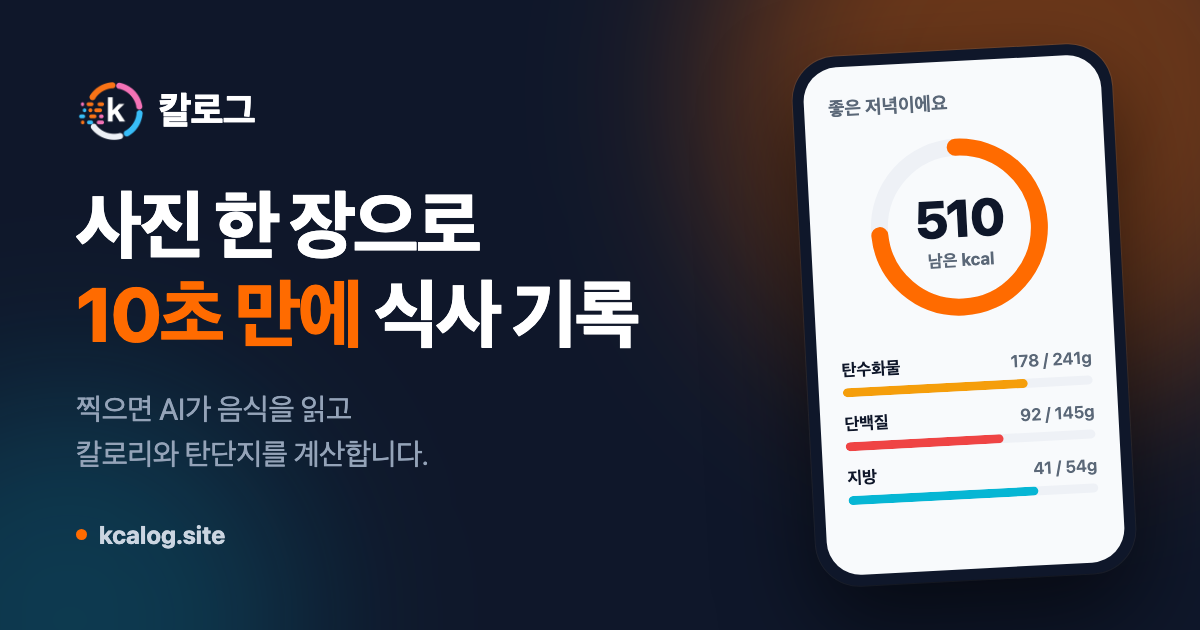
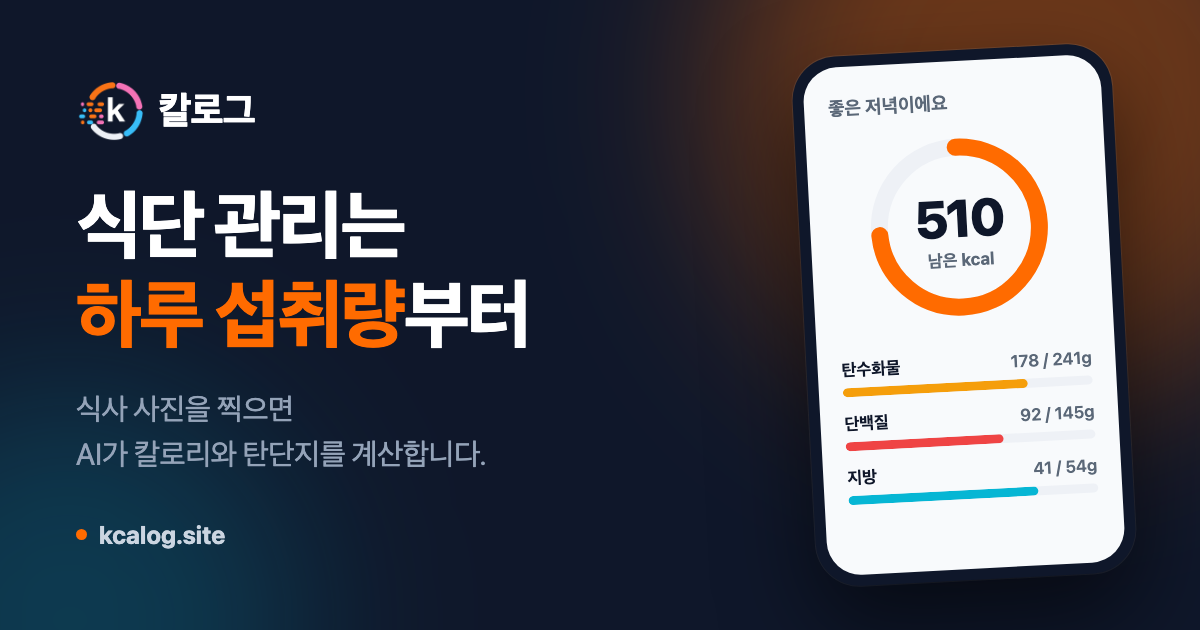
feat: 랜딩과 온보딩을 하루 섭취량 기준으로 다시 쓴다
사진 한 장으로 10초는 진입 마찰을 줄이는 수단이지 이 서비스의 핵심이
아니다. 요즘 칼로리 앱이 다 내세우는 문구라 차별점도 되지 못하고,
기록이 빨라도 기준이 틀렸으면 안 빠진다는 것에 답하지 않는다.

히어로를 식단 관리는 하루 섭취량부터로 바꾸고, 무엇을 하는 앱인지와
얻는 것을 한 줄에 담았다. 부제가 사진 기록과 실측 유지 칼로리를 받는다.

히어로 다음에 안 빠지는 이유를 다섯 가지로 푸는 섹션을 넣었다. 사람들이
모르는 것, 그래서 실패하는 지점, 칼로그가 그것을 어떻게 다루는지 순서다.
기능 소개보다 앞에 둔 이유는, 기능을 먼저 늘어놓으면 칼로리 앱 또 하나로
읽히고 아래로 내려가지 않기 때문이다.

레이아웃은 카드를 쓰지 않는다. 다섯을 같은 상자에 담으면 무게가 같아져
어느 것이 중요한지 사라지고, 대립하는 내용인데 격자로 늘어놓으면 대립이
읽히지 않는다. 가로선으로만 나눈 비대칭 두 칸으로 두어 왼쪽이 믿고 있는
것, 오른쪽이 그래서 벌어지는 일과 우리 답을 맡는다.

온보딩 결과 화면에는 빠져 있던 대비를 넣었다. 대부분의 앱은 처음 계산한
추정값을 끝까지 쓴다는 문장이 없으면 다들 하는 그 계산으로 읽힌다.
제목도 매일 기록해야 정확해져요에서 2주 뒤엔 내 몸에서 나온 숫자로
바뀌어요로 바꿔, 해야 할 일이 아니라 얻는 것을 앞세웠다.

2주라는 숫자는 히어로에서 뺐다. 앞에 두면 2주를 기다려야 쓸모가 생기는
앱으로 읽히는데, 실제로는 가입 직후에 목표가 나온다.

공유 카드와 메타데이터, 푸터, 로그인 화면도 같은 목소리로 맞췄다.

Changed region(s): [[0.0617, 0.3016, 0.555, 0.573], [0.0617, 0.6333, 0.4008, 0.754]]

diff --git a/frontend/src/pages/LandingPage.tsx b/frontend/src/pages/LandingPage.tsx
@@ -44,6 +44,53 @@ const FEATURES = [
   },
 ] as const
 
+/**
+ * 한 줄이 하나의 오해다. 왼쪽이 사람들이 믿는 것, 오른쪽이 그래서 벌어지는 일과 우리 답이다.
+ * `lead`가 붙은 첫 줄은 다른 칼로리 앱과 갈리는 지점이라 크기를 키운다.
+ */
+interface Misread {
+  title: string
+  body: string
+  answer: string
+  lead?: string
+  contrast?: string
+}
+
+const MISREADS: Misread[] = [
+  {
+    lead: '가장 큰 오해',
+    title: '인터넷 계산기 값이 정답인 줄 안다',
+    body: '공식으로 낸 값은 개인차가 10에서 15% 납니다. 2,500이라고 나와도 실제는 2,200일 수도 2,800일 수도 있습니다. 활동량을 한 칸 다르게 고르면 400kcal가 움직입니다. "계산대로 먹었는데 안 빠져요"가 여기서 나옵니다. 공식이 틀린 게 아니라 내 몸이 평균이 아닌 것뿐입니다.',
+    contrast: '대부분의 칼로리 앱은 처음 계산한 추정값을 끝까지 씁니다.',
+    answer:
+      '칼로그는 2주만 기록하면 실제로 먹은 양과 체중 변화로 역산해 진짜 유지 칼로리를 알려줍니다. 공식이 아니라 내 몸에서 나온 값입니다.',
+  },
+  {
+    title: '자기 유지 칼로리를 모른다',
+    body: '"적게 먹어야지"는 아는데 얼마나 적게인지 기준이 없습니다. 그래서 무작정 굶다가 폭식하고, 빠졌다 도로 찝니다.',
+    answer:
+      '키, 몸무게, 나이, 활동량으로 유지 칼로리를 계산하고 목표까지 잡아줍니다. 하루 500kcal를 덜 먹으면 한 달에 2kg이 빠진다는 것까지 숫자로 보여줍니다. 2주 뒤 생각만큼 안 움직이면 거기서 200에서 300kcal만 더 빼면 됩니다.',
+  },
+  {
+    title: '체중이 매일 흔들린다는 걸 모른다',
+    body: '물, 나트륨, 전날 먹은 탄수화물 때문에 하루 만에 1kg 넘게 오르내립니다. 지방이 아닙니다. 어제보다 늘어난 숫자를 보고 실패했다고 느껴 그만두는 것이 가장 흔한 포기 이유입니다.',
+    answer:
+      '하루 숫자가 아니라 추세선을 보여줍니다. 아침에 화장실 다녀와서 재는 것까지 알려주고, 오르내림은 신경 쓰지 않아도 된다고 말해줍니다.',
+  },
+  {
+    title: '단백질을 칼로리 비율로 정하면 안 된다',
+    body: '단백질은 몸 크기에 비례해야 하는데 대부분의 앱이 "칼로리의 30%"로 계산합니다. 그러면 많이 먹는 사람에게 체중 1kg당 2.8g 같은 값이 나옵니다. 근거 있는 범위는 1.6에서 2.2g입니다.',
+    answer:
+      '단백질을 체중에서 먼저 정하고(1kg당 1.2에서 2.0g), 지방을 25%로 두고, 남은 것을 탄수화물이 받습니다. 감량하면서 근육을 지키고 싶으면 "근육량도 목표" 하나만 켜면 됩니다.',
+  },
+  {
+    title: '탄단지를 정확히 맞춰야 한다고 착각한다',
+    body: '세 숫자를 딱 맞추려다 지쳐서 그만둡니다. 실제로는 총 칼로리가 훨씬 중요합니다.',
+    answer:
+      '탄수화물 20g을 덜고 지방 9g을 더하면 총 칼로리가 같다는 것을 숫자와 함께 알려줍니다. 단백질만 확보하면 나머지 둘은 취향껏 나눠도 결과가 크게 다르지 않습니다.',
+  },
+]
+
 const STEPS = [
   { n: '01', title: '식사 사진을 찍는다', body: '카메라 버튼 한 번. 접시를 통째로 담아도 됩니다.' },
   { n: '02', title: 'AI가 읽는다', body: '음식 이름과 양을 추정해 칼로리·탄단지를 계산합니다.' },
@@ -61,6 +108,10 @@ const SCREENS = [
 const TILT = [-4, 2.5, -2, 3.5] as const
 
 const FAQ = [
+  {
+    q: '다른 칼로리 앱과 뭐가 다른가요?',
+    a: '대부분은 처음 공식으로 계산한 추정값을 끝까지 씁니다. 칼로그는 2주치 식사와 체중이 쌓이면 실제로 먹은 양과 체중 변화로 유지 칼로리를 다시 계산해 목표를 고쳐 잡습니다. 단백질을 칼로리 비율이 아니라 체중에서 정하는 것도 다릅니다.',
+  },
   {
     q: '무료인가요?',
     a: '네. 지금은 모든 기능이 무료입니다. AI 분석에는 한 사람당 하루 사용량 제한이 있습니다.',
@@ -172,20 +223,20 @@ export function LandingPage() {
 
               <Reveal delayMs={80}>
                 <h1 className="mt-6 text-balance text-5xl font-extrabold leading-[1.08] tracking-tighter text-on-brand sm:text-6xl lg:text-7xl">
-                  사진 한 장으로
+                  식단 관리는
                   <br />
                   <span className="bg-gradient-to-r from-brand to-carb bg-clip-text text-transparent">
-                    10초 만에
-                  </span>{' '}
-                  기록
+                    하루 섭취량
+                  </span>
+                  부터
                 </h1>
               </Reveal>
 
               <Reveal delayMs={160}>
                 <p className="mx-auto mt-6 max-w-xl text-pretty text-lg leading-relaxed text-canvas/70 lg:mx-0 lg:text-xl">
-                  찍으면 AI가 음식을 읽고 칼로리와 탄·단·지를 계산합니다.
+                  식사 사진을 찍으면 AI가 칼로리와 탄단지를 계산합니다.
                   <br className="hidden sm:block" />
-                  체중, 주간 리포트, AI 코치까지 한 앱에서.
+                  쌓인 기록으로 하루 목표를 내 몸에 맞게 고쳐 나갑니다.
                 </p>
               </Reveal>
 
@@ -209,7 +260,7 @@ export function LandingPage() {
           </div>
 
           <a
-            href="#flow"
+            href="#why"
             aria-label="아래로 이동"
             className="absolute bottom-6 left-1/2 z-10 hidden -translate-x-1/2 rounded-full p-2 text-canvas/50 transition-colors hover:text-canvas focus-visible:ring-2 focus-visible:ring-brand sm:block"
           >
@@ -217,6 +268,69 @@ export function LandingPage() {
               <ChevronDownIcon />
             </span>
           </a>
+        </section>
+
+        {/*
+          히어로가 문제를 던졌으니 답이 바로 와야 한다. 기능 소개(FEATURES)보다 앞에 두는 이유는,
+          기능을 먼저 늘어놓으면 "칼로리 앱 또 하나"로 읽히고 아래로 내려가지 않기 때문이다.
+        */}
+        <section id="why" className="w-full scroll-mt-20 bg-surface py-24 sm:py-28">
+          <div className="mx-auto max-w-5xl px-6">
+            <Reveal>
+              <h2 className="max-w-2xl text-balance text-3xl font-extrabold tracking-tight sm:text-4xl">
+                안 빠지는 이유는 대개 정해져 있습니다
+              </h2>
+              <p className="mt-4 max-w-xl text-pretty leading-relaxed text-muted">
+                의지가 모자라서가 아니라, 기준이 없거나 틀렸기 때문입니다.
+              </p>
+            </Reveal>
+
+            {/*
+              카드에 담지 않는다. 다섯 개를 같은 상자에 넣으면 무게가 같아져 어느 것이
+              중요한지 사라지고, 대립하는 내용인데 격자로 늘어놔 대립이 안 읽힌다.
+              왼쪽이 믿고 있는 것, 오른쪽이 그래서 벌어지는 일과 우리 답이다.
+            */}
+            <ul className="mt-16 border-t border-border">
+              {MISREADS.map((item, i) => (
+                <Reveal
+                  key={item.title}
+                  delayMs={i * 60}
+                  as="li"
+                  className="block border-b border-border py-10 sm:py-14"
+                >
+                  <div className="grid gap-5 lg:grid-cols-[minmax(0,4fr)_minmax(0,6fr)] lg:gap-16">
+                    <div>
+                      {item.lead && (
+                        <p className="mb-3 text-xs font-black tracking-widest text-brand-ink">
+                          {item.lead}
+                        </p>
+                      )}
+                      <h3
+                        className={`text-balance font-extrabold leading-snug ${
+                          item.lead ? 'text-3xl sm:text-4xl' : 'text-2xl'
+                        }`}
+                      >
+                        {item.title}
+                      </h3>
+                    </div>
+
+                    <div>
+                      <p className="text-pretty leading-relaxed text-muted">{item.body}</p>
+                      {item.contrast && (
+                        <p className="mt-4 text-pretty leading-relaxed text-muted">
+                          {item.contrast}
+                        </p>
+                      )}
+                      {/* 답만 세로선을 달아 본문에서 떼어낸다. 색만 바꾸면 같은 문단으로 흘러간다 */}
+                      <p className="mt-6 border-l-2 border-brand pl-5 text-pretty leading-relaxed text-ink">
+                        {item.answer}
+                      </p>
+                    </div>
+                  </div>
+                </Reveal>
+              ))}
+            </ul>
+          </div>
         </section>
 
         {/* 찍는 순간과 그 뒤에 벌어지는 일 — 화면 하나와 단계를 나란히 둔다 */}
@@ -236,10 +350,10 @@ export function LandingPage() {
             <div>
               <Reveal>
                 <h2 className="text-balance text-3xl font-extrabold tracking-tight sm:text-4xl">
-                  찍고 나서 벌어지는 일
+                  기록이 쉬워야 계속합니다
                 </h2>
                 <p className="mt-4 text-pretty text-lg leading-relaxed text-muted">
-                  검색창도, 그램 수 입력도 없습니다. 세 단계면 오늘 한 끼가 들어갑니다.
+                  검색창도, 그램 수 입력도 없습니다. 사진을 찍으면 세 단계로 한 끼가 들어갑니다.
                 </p>
               </Reveal>
 
@@ -370,7 +484,7 @@ export function LandingPage() {
               <span className="text-xl font-extrabold tracking-tight text-on-brand">칼로그</span>
             </span>
             <span className="text-canvas/60">
-              사진 한 장으로 10초 안에 식사가 기록되는 AI 식단·체중 관리
+              내 몸에 맞는 하루 섭취량부터 잡는 AI 식단 관리
             </span>
             <span className="text-sm text-canvas/40">
               1인 개발 사이드 프로젝트입니다. 기능과 화면은 계속 바뀝니다.

diff --git a/frontend/src/pages/LandingPage.test.tsx b/frontend/src/pages/LandingPage.test.tsx
@@ -22,11 +22,22 @@ describe('LandingPage', () => {
   it('로그인을 요구하기 전에 서비스 설명과 기능을 보여준다', () => {
     renderLanding({ userAgent: UA.mac })
 
-    expect(screen.getByRole('heading', { level: 1 })).toHaveTextContent('10초')
+    expect(screen.getByRole('heading', { level: 1 })).toHaveTextContent('하루 섭취량')
     expect(screen.getByText('찍으면 끝나는 식사 기록')).toBeInTheDocument()
     expect(screen.getByText('체중과 주간 리포트')).toBeInTheDocument()
     expect(screen.getByText('AI 코치')).toBeInTheDocument()
     expect(screen.queryByRole('link', { name: /카카오/ })).not.toBeInTheDocument()
+  })
+
+  /*
+    이 서비스가 다른 칼로리 앱과 갈리는 지점. 랜딩에서 이 대비가 빠지면
+    "사진으로 찍는 칼로리 앱" 하나로 읽히고 설치까지 가지 않는다.
+  */
+  it('공식 추정값을 끝까지 쓰는 다른 앱과의 차이를 랜딩에서 말한다', () => {
+    renderLanding({ userAgent: UA.mac })
+
+    expect(screen.getByText(/대부분의 칼로리 앱은 처음 계산한 추정값을 끝까지 씁니다/)).toBeInTheDocument()
+    expect(screen.getByText(/2주만 기록하면/)).toBeInTheDocument()
   })
 
   it('iOS에서는 공유 → 홈 화면에 추가를 단계별로 안내한다', () => {
@@ -34,6 +45,12 @@ describe('LandingPage', () => {
 
     expect(screen.getByText('공유 버튼 누르기')).toBeInTheDocument()
     expect(screen.getByText('‘홈 화면에 추가’ 선택')).toBeInTheDocument()
+  })
+
+  it('iOS 공유 시트의 ‘더 보기’를 빠뜨리지 않는다 — 시트 첫 화면에는 홈 화면에 추가가 없다', () => {
+    renderLanding({ userAgent: UA.iphone })
+
+    expect(screen.getByText('‘더 보기’ 누르기')).toBeInTheDocument()
   })
 
   it('설치 안내가 특정 브라우저 사용을 요구하지 않는다 — iOS 16.4+는 크롬·엣지에서도 설치된다', () => {
@@ -129,7 +146,7 @@ describe('LandingRoute — 설치된 아이콘으로 들어온 경우', () => {
   it('브라우저로 들어오면 소개 화면을 그대로 보여준다', () => {
     renderRoute({ userAgent: UA.iphone })
 
-    expect(screen.getByRole('heading', { level: 1 })).toHaveTextContent('10초')
+    expect(screen.getByRole('heading', { level: 1 })).toHaveTextContent('하루 섭취량')
     expect(screen.queryByText('앱 화면')).not.toBeInTheDocument()
   })
 })

diff --git a/frontend/index.html b/frontend/index.html
@@ -30,14 +30,14 @@
       앱에는 다크 팔레트가 없으므로(index.css에 prefers-color-scheme 분기 없음) 여기서 잠근다.
     -->
     <meta name="color-scheme" content="light" />
-    <meta name="description" content="사진 한 장으로 10초 안에 식사가 기록되는 AI 식단·체중 관리 앱" />
-    <title>칼로그 — 사진 한 장으로 10초 만에 식사 기록</title>
+    <meta name="description" content="내 몸에 맞는 하루 섭취량부터 잡는 식단 관리 앱. 식사 사진을 찍으면 AI가 칼로리와 탄단지를 계산하고, 기록이 쌓이면 유지 칼로리를 다시 계산합니다." />
+    <title>칼로그 - 식단 관리는 하루 섭취량부터</title>
     <!-- 링크 미리보기(카카오톡·검색) — 절대 URL이어야 한다. 상대 경로는 크롤러가 받아가지 못한다 -->
     <meta property="og:type" content="website" />
     <meta property="og:locale" content="ko_KR" />
     <meta property="og:site_name" content="칼로그" />
-    <meta property="og:title" content="칼로그 — 사진 한 장으로 10초 만에 식사 기록" />
-    <meta property="og:description" content="찍으면 AI가 음식을 읽고 칼로리와 탄단지를 계산합니다. 체중·주간 리포트·AI 코치까지." />
+    <meta property="og:title" content="칼로그 - 식단 관리는 하루 섭취량부터" />
+    <meta property="og:description" content="식사 사진을 찍으면 AI가 칼로리와 탄단지를 계산합니다. 쌓인 기록으로 하루 목표를 내 몸에 맞게 고쳐 나갑니다." />
     <meta property="og:url" content="https://kcalog.site/" />
     <!-- 원본은 tools/og/og.html — 문구·색이 바뀌면 거기서 다시 뽑는다 -->
     <meta property="og:image" content="https://kcalog.site/og.png" />

diff --git a/frontend/src/pages/OnboardingPage.tsx b/frontend/src/pages/OnboardingPage.tsx
@@ -408,10 +408,16 @@ export function OnboardingPage() {
             매일 기록해야 내 몸의 값으로 바뀐다. 다른 설명보다 위에 두고 색을 준다.
           */}
           <section className="rounded-2xl bg-success-soft px-4 py-4">
-            <h2 className="text-[15px] font-bold text-ink">매일 기록해야 정확해져요</h2>
+            <h2 className="text-[15px] font-bold text-ink">2주 뒤엔 내 몸에서 나온 숫자로 바뀌어요</h2>
             <p className="mt-1.5 text-sm leading-[1.75] text-ink/75">
-              지금 숫자는 키·몸무게·나이로 낸 <span className="font-semibold text-ink">추정값</span>이에요.
-              식사와 체중을 매일 남기면 2주 뒤부터{' '}
+              지금 숫자는 키, 몸무게, 나이로 낸 <span className="font-semibold text-ink">추정값</span>
+              이에요. 공식이라 사람마다 10에서 15% 어긋나요. 2,500이 나와도 실제로는 2,200일 수도,
+              2,800일 수도 있어요.
+            </p>
+            {/* 2번 차별점. 이 대비가 없으면 "다들 하는 그 계산"으로 읽히고 넘어간다 */}
+            <p className="mt-2 text-sm leading-[1.75] text-ink/75">
+              <span className="font-semibold text-ink">대부분의 칼로리 앱은 이 추정값을 끝까지 써요.</span>{' '}
+              칼로그는 식사와 체중을 매일 남기면 2주 뒤부터{' '}
               <span className="font-semibold text-ink">실제로 먹은 양과 체중 변화</span>로 유지 칼로리를
               다시 계산해요. 공식이 아니라 내 몸에서 나온 값이 되는 거예요.
             </p>

diff --git a/frontend/src/pages/OnboardingPage.test.tsx b/frontend/src/pages/OnboardingPage.test.tsx
@@ -294,8 +294,10 @@ describe('OnboardingPage 위저드', () => {
     await findResult()
 
     // 이 앱에서 가장 중요한 한 가지. 매일 기록해야 추정값이 내 몸의 값으로 바뀐다
-    expect(screen.getByText('매일 기록해야 정확해져요')).toBeInTheDocument()
+    expect(screen.getByText('2주 뒤엔 내 몸에서 나온 숫자로 바뀌어요')).toBeInTheDocument()
     expect(screen.getByText(/실제로 먹은 양과 체중 변화/)).toBeInTheDocument()
+    // 이 대비가 빠지면 "다들 하는 그 계산"으로 읽힌다
+    expect(screen.getByText(/대부분의 칼로리 앱은 이 추정값을 끝까지 써요/)).toBeInTheDocument()
 
     expect(screen.getByText(/200~300kcal만 더 빼면/)).toBeInTheDocument()
     // 탄수 4kcal/g, 지방 9kcal/g → 20g과 9g이 맞바꿔진다

diff --git a/frontend/src/pages/LoginPage.tsx b/frontend/src/pages/LoginPage.tsx
@@ -26,7 +26,7 @@ export function LoginPage() {
           4.6%는 마크에서 실측한 값이다 — 잔상을 고치면 다시 재야 한다 */}
       <AppMark className="h-16 w-auto -translate-x-[4.6%]" />
       <h1 className="mt-4 text-3xl font-bold text-brand-ink">칼로그</h1>
-      <p className="mt-2 text-muted">사진 한 장으로 10초 안에 기록하는 체중 관리</p>
+      <p className="mt-2 text-muted">내 몸에 맞는 하루 섭취량부터</p>
       {error && (
         <p role="alert" className="mt-4 text-sm text-danger">
           {ERROR_MESSAGES[error] ?? '로그인에 실패했어요. 다시 시도해주세요.'}

diff --git a/frontend/tools/og/og.html b/frontend/tools/og/og.html
@@ -156,8 +156,8 @@
           <img src="../../public/kcalog-mark-on-dark-v2.png" alt="" />
           <span>칼로그</span>
         </div>
-        <h1>사진 한 장으로<br /><em>10초 만에</em> 식사 기록</h1>
-        <p>찍으면 AI가 음식을 읽고<br />칼로리와 탄단지를 계산합니다.</p>
+        <h1>식단 관리는<br /><em>하루 섭취량</em>부터</h1>
+        <p>식사 사진을 찍으면<br />AI가 칼로리와 탄단지를 계산합니다.</p>
         <div class="domain">kcalog.site</div>
       </div>
 
